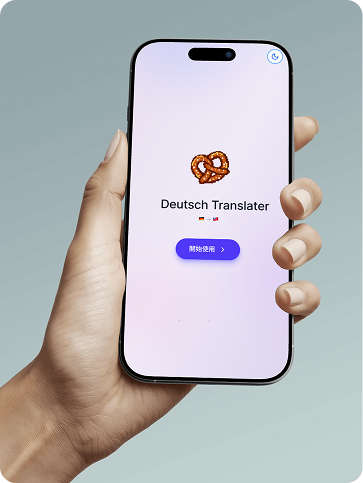
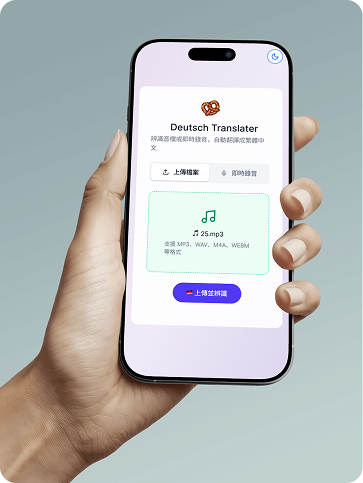
content: 合併 Talk German「體驗展示」與「走一遍就懂的動線」
兩段內容幾乎重複，保留體驗展示並接手 CTA；
移除段落的圖片 09.png 一併刪除，原 10–14 依序遞補為 09–13。

Changed region(s): [[0.3636, 0.1553, 0.7879, 0.6832], [0.3939, 0.4348, 0.4242, 0.4658]]

diff --git a/src/content/projects/talk-german.md b/src/content/projects/talk-german.md
@@ -133,38 +133,20 @@ sections:
       zh: 實際走一遍 Talk German
     body:
       en: >-
-        Explore how the interface simplifies the path from speech to
-        understanding. This demo walks through the core user journey: starting
-        with a secure, frictionless login, moving to high-efficiency audio
-        capture—supporting both live recording and audio file uploads. The demo
-        concludes with a clear, side-by-side translation comparison, allowing
-        learners to instantly verify their German comprehension and maintain
-        focus in real-world environments.
+        How do you get from hearing German to understanding it, without the
+        interface getting in the way? This demo follows the core journey: a
+        login that's secure but quick, audio capture that takes either a live
+        recording or an uploaded file, and a side-by-side translation where
+        learners can check right away how much they understood. The aim is
+        simple: take the pressure off, and keep attention on the sentence in
+        front of you.
       zh: >-
-        看介面怎麼把「從說出口到聽得懂」這段路變簡單。這段 demo
-        走過核心動線：先是一個安全但不囉唆的登入，接著是效率導向的語音擷取——現場錄音與上傳音檔都支援。最後停在左右對照的翻譯結果，讓學習者當場確認自己聽懂了多少，在真實環境裡也守得住注意力。
+        從聽見德文到聽懂德文，介面能不能別擋路？這段 demo
+        走過核心動線：先是一個安全但不囉唆的登入，接著是語音擷取，現場錄音或上傳音檔都行，最後停在左右對照的翻譯結果，學習者當場就能確認自己聽懂了幾成。整段設計的目的其實很單純：把壓力降下來，讓注意力留在「聽懂這句話」上。
     ratio: 16/10
     alt:
       en: Talk German translation screen demo on a single phone
       zh: 單台手機展示 Talk German 的翻譯結果畫面
-  - type: featureSplit
-    heading:
-      en: Experience the Intuitive Flow
-      zh: 走一遍就懂的動線
-    body:
-      en: >-
-        Take a hands-on look at how design simplifies German translation. This
-        demo showcases the fluid transition from speech to instant parallel
-        results, built specifically to reduce pressure and keep learners focused
-        on understanding the language.
-      zh: >-
-        親手看一次設計怎麼讓德文翻譯變簡單。這段 demo
-        展示從語音到即時對照結果之間的流暢銜接——它的目的很明確：把壓力降下來，讓學習者把注意力留在「聽懂這句話」上。
-    imagePosition: right
-    ratio: 3/4
-    alt:
-      en: Hand holding a phone showing the Talk German intuitive flow
-      zh: 手拿手機展示 Talk German 的操作動線
     ctaLabel:
       en: Let's Try Out
       zh: 來試試看
